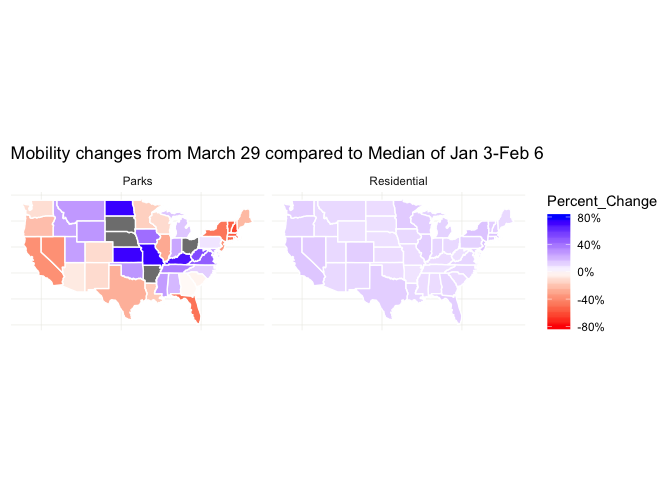
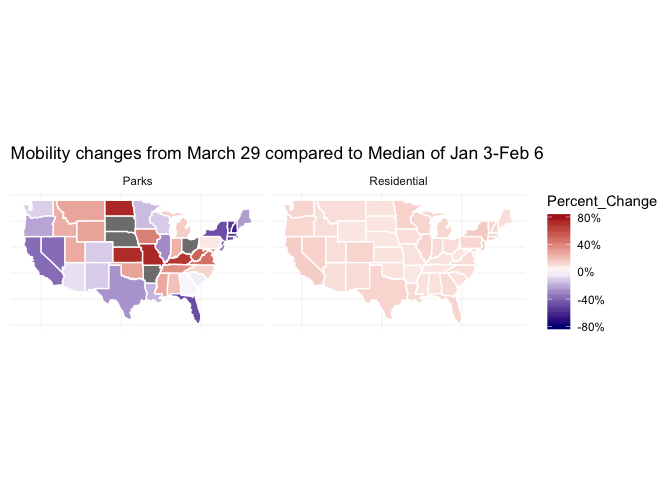
Update color map (red = increase)

diff --git a/covid19_google_mobility_mapped_3_29.md b/covid19_google_mobility_mapped_3_29.md
@@ -87,7 +87,7 @@ ldf %>%
   ggplot() + 
     geom_polygon(aes(x = long, y = lat, group = group, fill=Percent_Change), color = "white") + 
     coord_fixed(1.3) +
-    scale_fill_gradient(low = "red", high = "white", lim=c(-.80,0),
+    scale_fill_gradient(low = "navyblue", high = "white", lim=c(-.80,0),
                          labels = scales::percent) +
     facet_wrap(~Type) + 
     ggtitle("Mobility changes from March 29 compared to Median of Jan 3-Feb 6") +
@@ -108,7 +108,7 @@ ldf %>%
   ggplot() + 
     geom_polygon(aes(x = long, y = lat, group = group, fill=Percent_Change), color = "white") + 
     coord_fixed(1.3) +
-    scale_fill_gradient2(low = "red", mid="white",high = "blue", lim=c(-.80,.80),
+    scale_fill_gradient2(low = "navyblue", mid="white",high = "firebrick", lim=c(-.80,.80),
                          labels = scales::percent) +
     facet_wrap(~Type) + 
     ggtitle("Mobility changes from March 29 compared to Median of Jan 3-Feb 6") +
